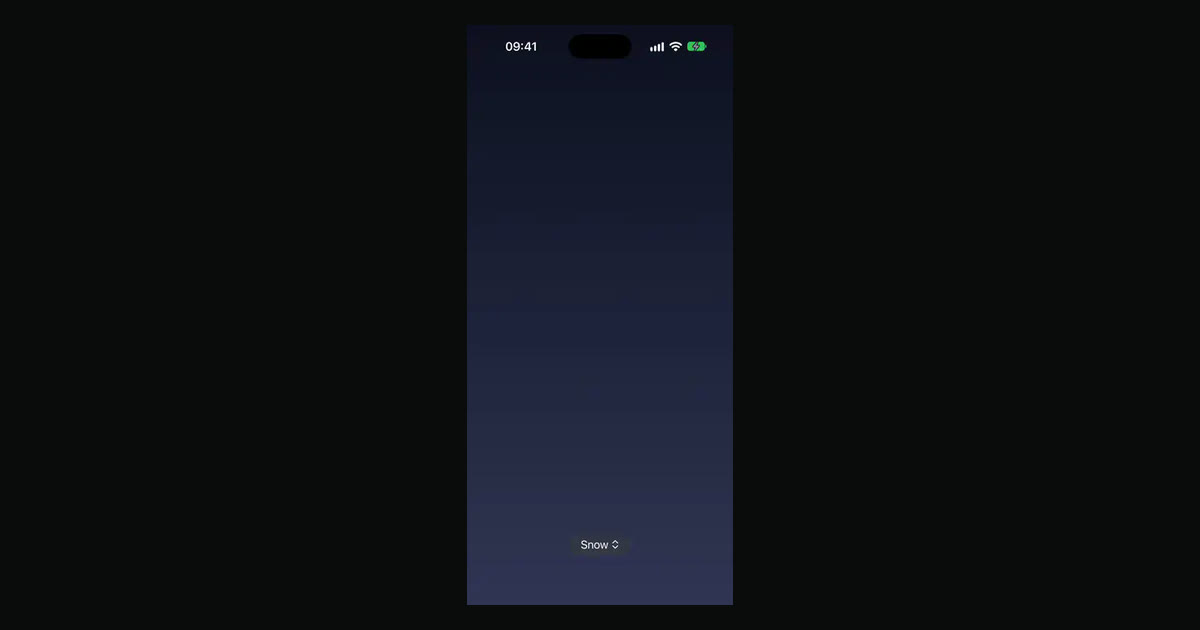
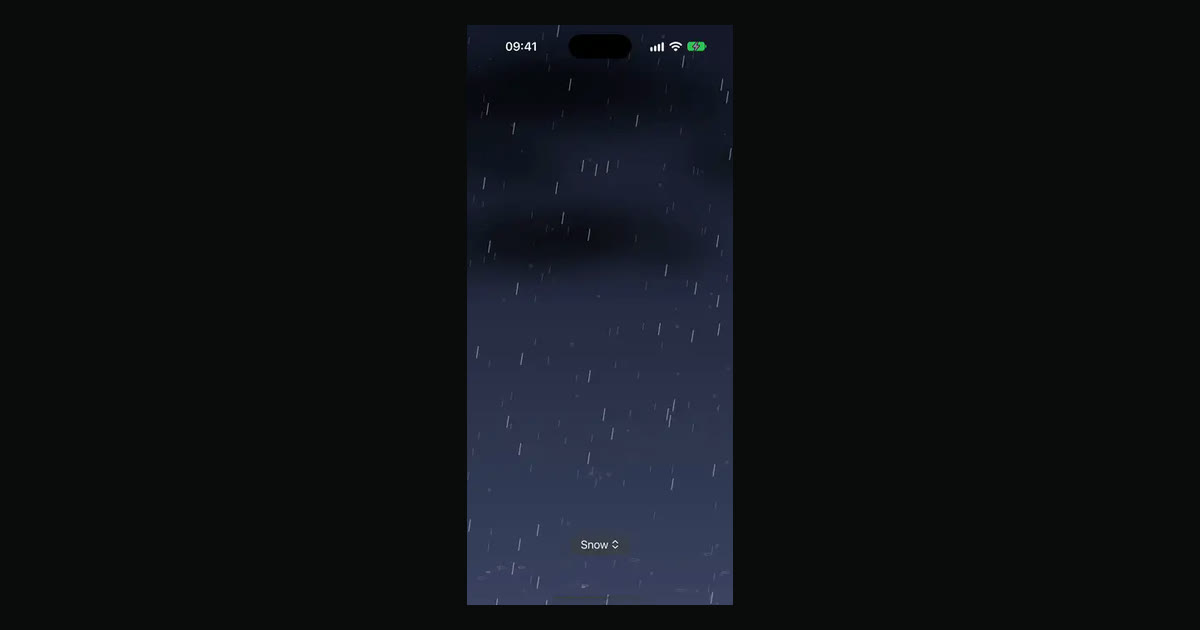
fix(backgrounds): fade both ways, catch the touch that stops the demo and draw slow skies at 30 fps
A review of Weather Effects Background found:

- Only the arriving effects faded: a ForEach removal transition inside the
  TimelineView was not animated by .animation(_:value:), so the clouds and
  rain of the old weather vanished in one frame and left an empty sky. The
  background now keeps the leaving weather and crossfades it out with
  withAnimation, each weather on its own clock so it moves while it fades.
  Measured on the recorded preview: no frame-to-frame drop in detail at any
  change.
- Touching the demo did not stop it, as the background takes no touches.
  A clear layer with a content shape now catches the touch, and a choice
  from the menu stops it too.
- Every weather redrew at 60 fps with full-screen blurs. Clouds, fog, the
  sun and the stars, which move a few points a second, now draw at 30.
- wrap returned the travel itself for a tiny negative position, outside
  0..<travel; it now returns 0. Tests cover that, positions at the scale
  of the clock, and the dark moment Reduce Motion holds.

Riesgo: medio · one component

Changed region(s): [[0.4008, 0.3317, 0.5242, 0.4222]]

diff --git a/Components/Backgrounds/WeatherEffectsBackground/WeatherEffectsBackground.swift b/Components/Backgrounds/WeatherEffectsBackground/WeatherEffectsBackground.swift
@@ -17,21 +17,35 @@ struct WeatherEffectsBackground: View {
 
     @Environment(\.accessibilityReduceMotion) private var reduceMotion
 
+    /// The weather fading out after a change, drawn under the new one until it is gone.
+    @State private var leaving: WeatherEffectsBackgroundWeather?
+    /// How far the change has gone, from 0 when it starts to 1 when only the new weather shows.
+    @State private var arrival: Double = 1
+
+    private let fade: Animation = .easeInOut(duration: 1)
+
     var body: some View {
-        TimelineView(.animation(minimumInterval: 1.0 / 60.0, paused: reduceMotion)) { timeline in
-            let time = reduceMotion ? 0 : timeline.date.timeIntervalSinceReferenceDate
+        ZStack {
+            LinearGradient(colors: weather.skyColors, startPoint: .top, endPoint: .bottom)
+                .animation(fade, value: weather)
 
-            ZStack {
-                LinearGradient(colors: weather.skyColors, startPoint: .top, endPoint: .bottom)
-
-                // One identity per weather, so a change fades the old effects out and the new ones in.
-                ForEach([weather], id: \.self) { weather in
-                    WeatherEffectsBackgroundLayers(weather: weather, time: time, flashes: !reduceMotion)
-                        .transition(.opacity)
-                }
+            // Each weather keeps its own clock, so the effects that leave go on moving while they fade.
+            if let leaving {
+                effects(of: leaving)
+                    .opacity(1 - arrival)
+            }
+            effects(of: weather)
+                .opacity(arrival)
+        }
+        .onChange(of: weather) { previous, _ in
+            leaving = previous
+            arrival = 0
+            withAnimation(fade) {
+                arrival = 1
+            } completion: {
+                leaving = nil
             }
         }
-        .animation(.easeInOut(duration: 1), value: weather)
         .ignoresSafeArea()
         .allowsHitTesting(false)
         .accessibilityHidden(true)
@@ -52,6 +66,14 @@ nonisolated enum WeatherEffectsBackgroundWeather: String, CaseIterable, Sendable
         case .thunderstorm: "Thunderstorm"
         case .snow: "Snow"
         case .fog: "Fog"
+        }
+    }
+
+    /// Falling rain and snow need every frame; slow clouds, fog, the sun and the stars do with half.
+    fileprivate var frameInterval: Double {
+        switch self {
+        case .rain, .thunderstorm, .snow: 1.0 / 60.0
+        case .clearDay, .clearNight, .cloudy, .fog: 1.0 / 30.0
         }
     }
 
@@ -79,7 +101,10 @@ nonisolated enum WeatherEffectsBackgroundMath {
     static func wrap(_ position: Double, over travel: Double) -> Double {
         guard travel > 0 else { return 0 }
         let remainder = position.truncatingRemainder(dividingBy: travel)
-        return remainder < 0 ? remainder + travel : remainder
+        guard remainder < 0 else { return remainder }
+        // A tiny negative remainder rounds up to `travel` itself, which belongs at the start.
+        let wrapped = remainder + travel
+        return wrapped < travel ? wrapped : 0
     }
 
     /// The brightness of the lightning at a moment, from 0 when dark to 1 at the peak of a flash.
@@ -93,6 +118,19 @@ nonisolated enum WeatherEffectsBackgroundMath {
 
     /// Two strikes close together, as lightning often comes, early in each cycle.
     private static let strikes: [(start: Double, duration: Double)] = [(0.4, 0.18), (0.75, 0.22)]
+}
+
+extension WeatherEffectsBackground {
+    private func effects(of weather: WeatherEffectsBackgroundWeather) -> some View {
+        TimelineView(.animation(minimumInterval: weather.frameInterval, paused: reduceMotion)) { timeline in
+            WeatherEffectsBackgroundLayers(
+                weather: weather,
+                time: reduceMotion ? 0 : timeline.date.timeIntervalSinceReferenceDate,
+                flashes: !reduceMotion
+            )
+        }
+        .id(weather)
+    }
 }
 
 // MARK: - Layers
@@ -214,9 +252,10 @@ nonisolated private enum WeatherEffectsBackgroundStars {
 // MARK: - Clouds
 
 nonisolated private enum WeatherEffectsBackgroundClouds {
-    /// Soft clouds in three bands, the higher ones slower, drifting toward the trailing edge.
     /// The soft ellipses that make up one cloud.
     private static let puffs = 4
+
+    /// Soft clouds in three bands, the higher ones slower, drifting to the right in any layout.
 
     static func draw(in context: inout GraphicsContext, size: CGSize, time: Double, color: Color, opacity: Double) {
         let cloudWidth = size.width * 0.9
@@ -378,31 +417,47 @@ struct WeatherEffectsBackgroundDemo: View {
     @State private var isAutoPlaying = true
     @State private var weather = WeatherEffectsBackgroundWeather.clearDay
 
+    /// A choice from the menu also stops the demo, which would otherwise move on from it.
+    private var chosenWeather: Binding<WeatherEffectsBackgroundWeather> {
+        Binding {
+            weather
+        } set: { choice in
+            isAutoPlaying = false
+            weather = choice
+        }
+    }
+
     var body: some View {
-        WeatherEffectsBackground(weather: weather)
-            .overlay(alignment: .bottom) {
-                Picker("Weather", selection: $weather) {
-                    ForEach(WeatherEffectsBackgroundWeather.allCases, id: \.self) { weather in
-                        Text(weather.title).tag(weather)
-                    }
-                }
-                .pickerStyle(.menu)
-                .tint(.white)
-                .padding(.horizontal, 6)
-                .background(.ultraThinMaterial, in: .capsule)
-                .environment(\.colorScheme, .dark)
-                .padding(.bottom, 40)
-            }
-            .simultaneousGesture(DragGesture(minimumDistance: 0).onChanged { _ in isAutoPlaying = false })
-            .task {
-                while isAutoPlaying {
-                    try? await Task.sleep(for: .seconds(1.8))
-                    guard !Task.isCancelled, isAutoPlaying else { return }
-                    let all = WeatherEffectsBackgroundWeather.allCases
-                    let next = ((all.firstIndex(of: weather) ?? 0) + 1) % all.count
-                    weather = all[next]
+        ZStack {
+            WeatherEffectsBackground(weather: weather)
+
+            // The background takes no touches, so this layer catches the one that stops the demo.
+            Color.clear
+                .contentShape(.rect)
+        }
+        .overlay(alignment: .bottom) {
+            Picker("Weather", selection: chosenWeather) {
+                ForEach(WeatherEffectsBackgroundWeather.allCases, id: \.self) { weather in
+                    Text(weather.title).tag(weather)
                 }
             }
+            .pickerStyle(.menu)
+            .tint(.white)
+            .padding(.horizontal, 6)
+            .background(.ultraThinMaterial, in: .capsule)
+            .environment(\.colorScheme, .dark)
+            .padding(.bottom, 40)
+        }
+        .simultaneousGesture(DragGesture(minimumDistance: 0).onChanged { _ in isAutoPlaying = false })
+        .task {
+            while isAutoPlaying {
+                try? await Task.sleep(for: .seconds(1.8))
+                guard !Task.isCancelled, isAutoPlaying else { return }
+                let all = WeatherEffectsBackgroundWeather.allCases
+                let next = ((all.firstIndex(of: weather) ?? 0) + 1) % all.count
+                weather = all[next]
+            }
+        }
     }
 }
 

diff --git a/Showcase/ShowcaseTests/WeatherEffectsBackgroundTests.swift b/Showcase/ShowcaseTests/WeatherEffectsBackgroundTests.swift
@@ -25,6 +25,20 @@ struct WeatherEffectsBackgroundTests {
         #expect(Math.wrap(42, over: 0) == 0)
     }
 
+    @Test func aPositionJustBeforeTheStartStaysInsideTheTravel() {
+        #expect(Math.wrap(-1e-17, over: 6) < 6)
+    }
+
+    @Test func positionsAtTheScaleOfTheClockStillWrapSmoothly() {
+        let now = 815_000_000.0 * 700
+        let travel = 932.0
+
+        let first = Math.wrap(now, over: travel)
+        let next = Math.wrap(now + 7, over: travel)
+
+        #expect(abs(Math.wrap(next - first, over: travel) - 7) < 0.01)
+    }
+
     // MARK: - Lightning
 
     @Test func mostOfTheCycleHasNoFlash() {
@@ -50,6 +64,10 @@ struct WeatherEffectsBackgroundTests {
             let flash = Math.flash(at: time)
             #expect(flash >= 0 && flash <= 1)
         }
+    }
+
+    @Test func theMomentReduceMotionHoldsIsDark() {
+        #expect(Math.flash(at: 0) == 0)
     }
 
     @Test func theFlashRepeatsEveryCycle() {
